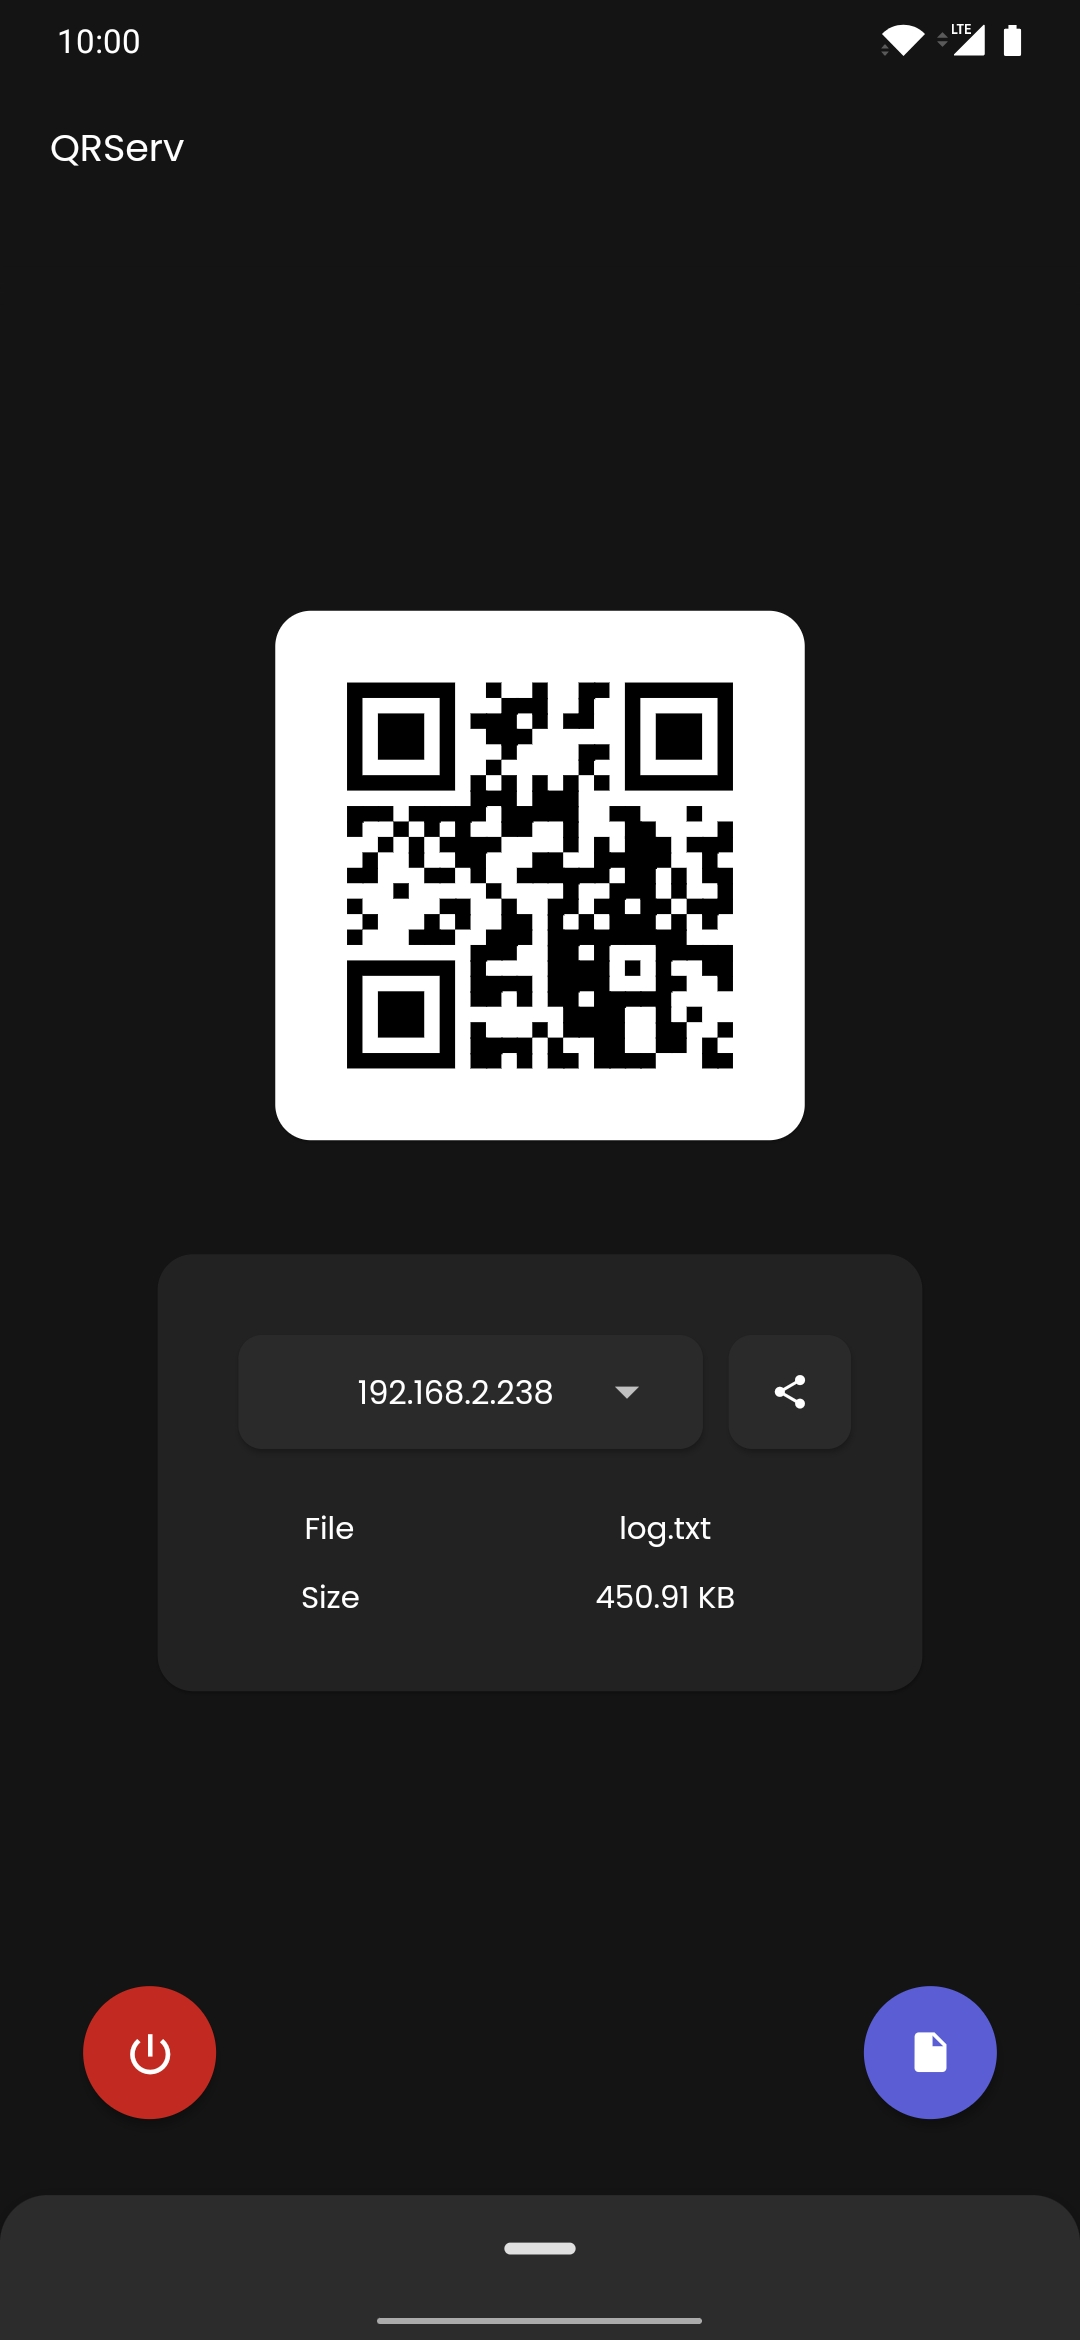
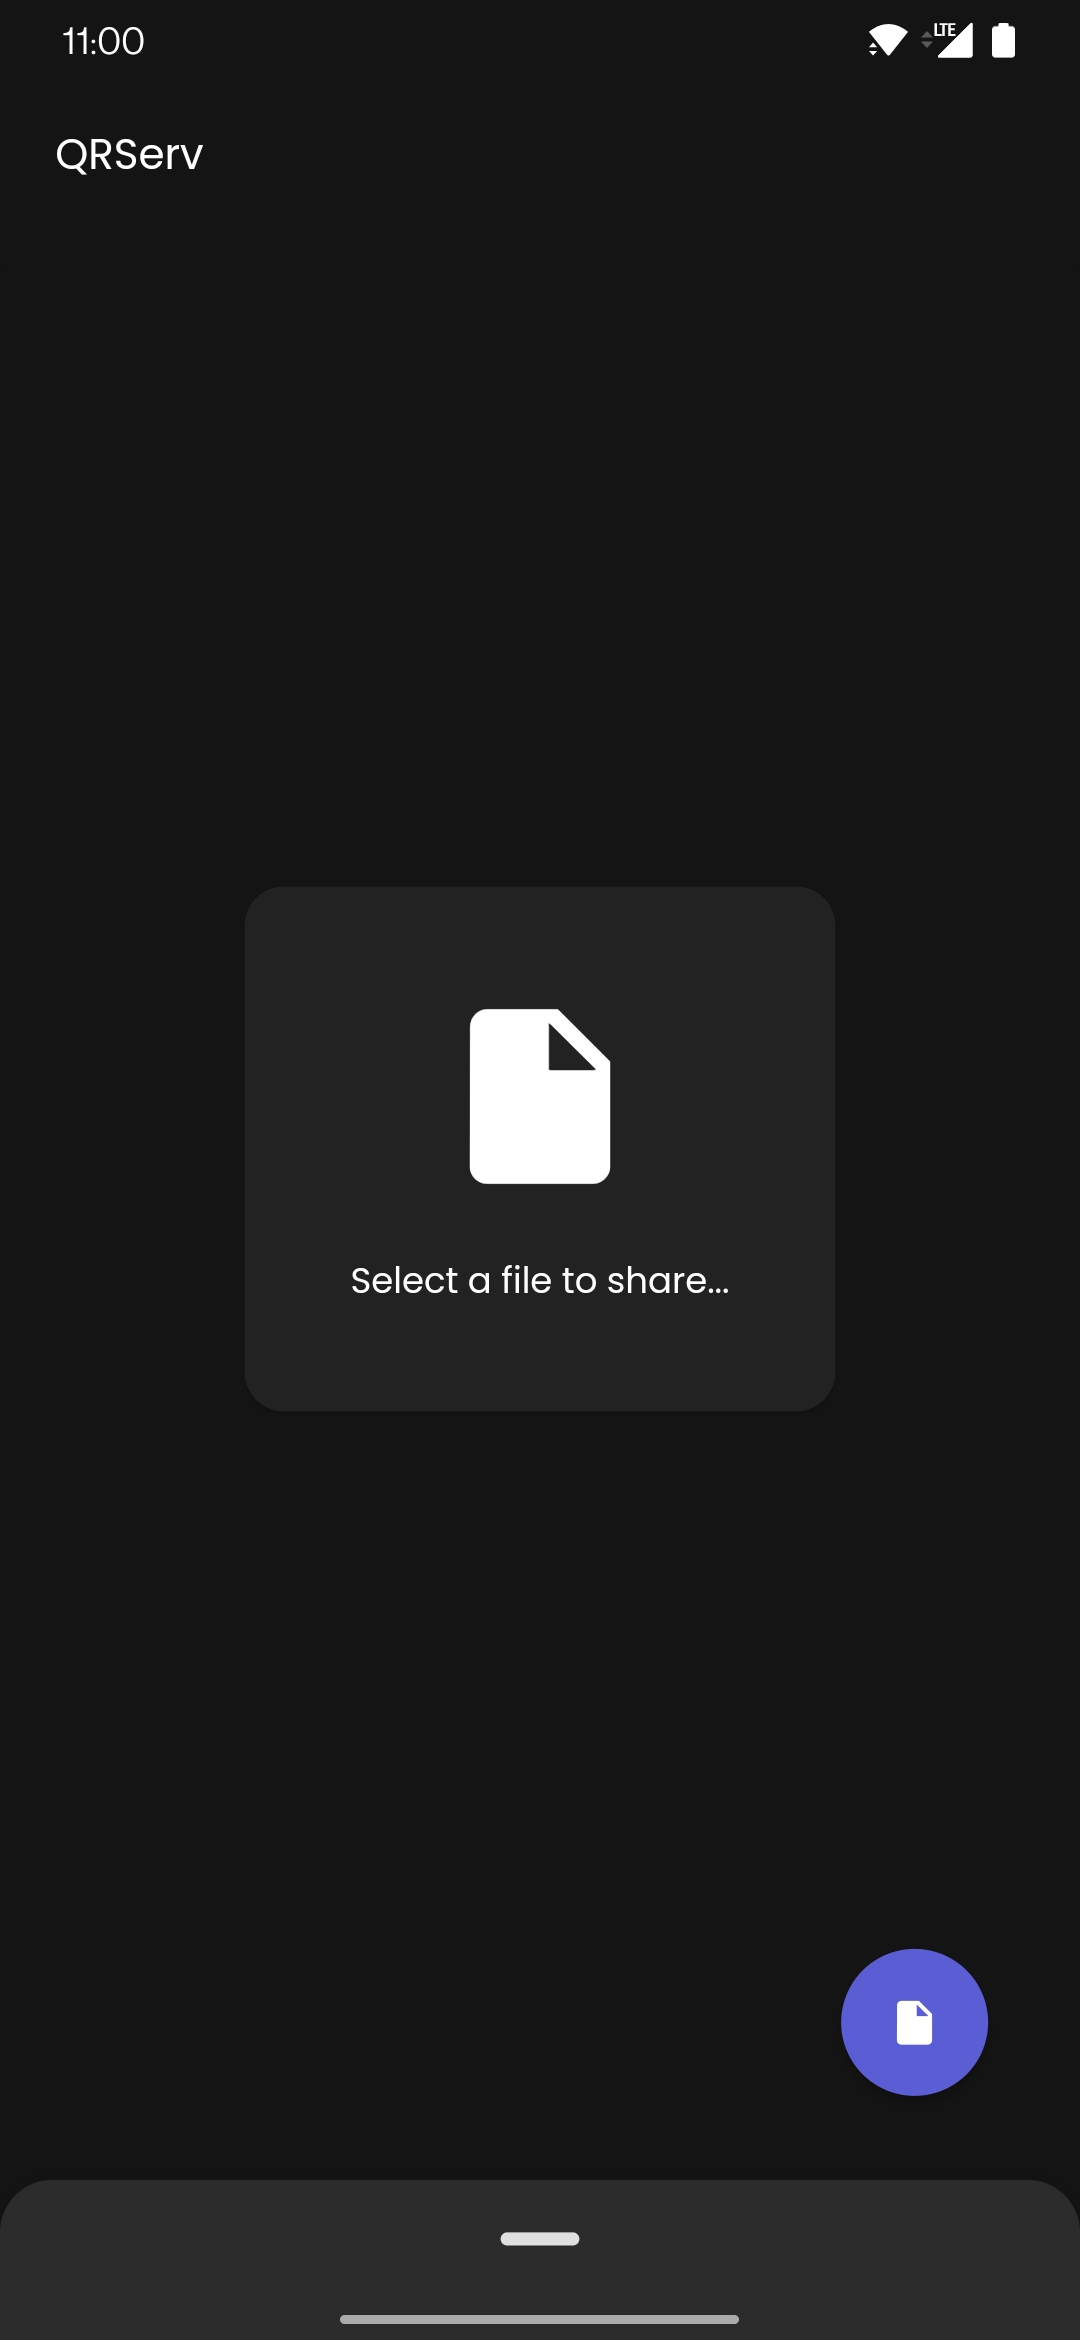
Update screenshots
Comply with requirements for Google Play potential promotions

diff --git a/README.md b/README.md
@@ -20,11 +20,13 @@
     <summary>Screenshots</summary>
     <br>
     <p align="center">
-        <img src="docs/screenshots/1.jpg" alt="Screenshot of app after selecting a file" height="420">
+        <img src="docs/screenshots/1.jpg" alt="Screenshot of app on the main screen" height="380">
         &nbsp;&nbsp;
-        <img src="docs/screenshots/2.jpg" alt="Screenshot of app when press and holding or hovering over file name -- tool tip is shown with full file name" height="420">
+        <img src="docs/screenshots/2.jpg" alt="Screenshot of app after selecting a file" height="380">
         &nbsp;&nbsp;
-        <img src="docs/screenshots/3.jpg" alt="Screenshot of app after opening IP address list" height="420">
+        <img src="docs/screenshots/3.jpg" alt="Screenshot of app after opening IP address list" height="380">
+        &nbsp;&nbsp;
+        <img src="docs/screenshots/4.jpg" alt="Screenshot of app when press and holding or hovering over file name -- tool tip is shown with full file name" height="380">
     </p>
 </details>
 <br>
